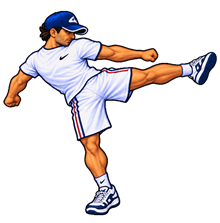
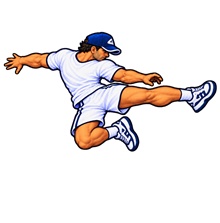
p

Changed region(s): [[0.0, 0.0269, 1.0, 0.9686]]

diff --git a/game.js b/game.js
@@ -266,12 +266,12 @@ function inReach(ax,ay,bx,by,reach){return Math.abs(ax-bx)<reach&&Math.abs(ay-by
 function triggerImpact(x,y,direction,strength=1){impactFlash={active:true,elapsed:0,x,y,direction,strength};pulidoHitStopMs=Math.max(pulidoHitStopMs,strength>1?60:52)}
 function damageEnemy(actor,amount,knockDirection=facing,canBlock=false){if(actor.dead||actor.knocked)return false;const reinforced=actor===enemy||actor===heavyEnemy,blockChance=reinforced?.275:.22,damageMultiplier=actor===jefe?.5:reinforced?.75:1,impactStrength=amount>=18?1.25:1;if(canBlock&&actor.guardTimer>0){actor.state='guard';actor.attackTimer=0;playPunchBlockSfx();return false}if(canBlock&&actor.comboHits===0&&(actor.guardCooldown||0)<=0&&Math.random()<blockChance){actor.guardTimer=55;actor.guardCooldown=78;actor.state='guard';actor.attackTimer=0;playPunchBlockSfx();return false}actor.hp=Math.max(0,actor.hp-amount*damageMultiplier);actor.hitTimer=18;actor.x+=knockDirection*(impactStrength>1?23:19);triggerImpact(actor.x,actor.y-actorScale(actor)*72,knockDirection,impactStrength);playPunchImpactSfx();actor.comboHits=actor.comboTimer>0?actor.comboHits+1:1;actor.comboTimer=42;if(actor.hp===0){actor.dead=true;actor.deadTimer=78;actor.hidden=false;actor.state='dead';actor.attackTimer=0;actor.drinkTimer=0;playKnockoutSfx();return true}if(actor.comboHits>=3){actor.knocked=true;actor.knockTimer=78;actor.comboHits=0;actor.comboTimer=0;actor.state='down';actor.attackTimer=0;playKnockoutSfx()}return true}
 function damagePlayer(amount,from){if(playerDead||invincible)return;player.hp=Math.max(0,player.hp-amount);playerHitTimer=16;player.x+=from.facing*14;triggerImpact(player.x,player.y-52,from.facing);playPunchImpactSfx();if(player.hp===0){playerDead=true;state='dead';attackTimer=0;jumpActive=false;jumpY=0;stopPhaseMusic();playKnockoutSfx();playDistantShout(140)}}
-damagePlayer=function(amount,from){if(playerDead||playerKnocked||invincible)return;player.hp=Math.max(0,player.hp-amount);playerHitTimer=16;player.x+=from.facing*14;triggerImpact(player.x,player.y-52,from.facing);playPunchImpactSfx();gainRafaSpecial(8);playerComboHits=playerComboTimer>0&&playerComboSource===from?playerComboHits+1:1;playerComboSource=from;playerComboTimer=42;const knockLimit=(from===enemy||from===heavyEnemy)?2:3;if(player.hp===0){playerDead=true;state='dead';attackTimer=0;jumpActive=false;jumpY=0;stopPhaseMusic();playKnockoutSfx();playDistantShout(140);return}if(playerComboHits>=knockLimit){playerKnocked=true;playerKnockTimer=78;playerComboHits=0;playerComboTimer=0;playerComboSource=null;state='down';attackTimer=0;jumpActive=false;jumpY=0;playKnockoutSfx()}}
+damagePlayer=function(amount,from){if(playerDead||playerKnocked||invincible)return;player.hp=Math.max(0,player.hp-amount);playerHitTimer=16;player.x+=from.facing*14;triggerImpact(player.x,player.y-52,from.facing);playPunchImpactSfx();gainRafaSpecial(4);playerComboHits=playerComboTimer>0&&playerComboSource===from?playerComboHits+1:1;playerComboSource=from;playerComboTimer=42;const knockLimit=(from===enemy||from===heavyEnemy)?2:3;if(player.hp===0){playerDead=true;state='dead';attackTimer=0;jumpActive=false;jumpY=0;stopPhaseMusic();playKnockoutSfx();playDistantShout(140);return}if(playerComboHits>=knockLimit){playerKnocked=true;playerKnockTimer=78;playerComboHits=0;playerComboTimer=0;playerComboSource=null;state='down';attackTimer=0;jumpActive=false;jumpY=0;playKnockoutSfx()}}
 function gainRafaSpecial(amount){if(selectedCharacter!=='rafa'||rafaSpecialAttack)return;rafaSpecialMeter=Math.min(100,rafaSpecialMeter+amount)}
-function tryPlayerHit(forceKick=false){if(playerAttackLanded||playerDead)return false;const kicking=forceKick||state==='kick'||state==='jumpKick',hitReach=kicking?120:98,damage=kicking?18:14;for(const actor of combatActors()){if(actor.dead)continue;if(Math.abs(actor.x-player.x)<hitReach&&Math.abs(actor.y-player.y)<24){const canBlock=!kicking||actor===enemy||actor===heavyEnemy,damaged=damageEnemy(actor,damage,facing,canBlock);if(damaged){player.x-=facing*3;gainRafaSpecial(12)}playerAttackLanded=true;return damaged;}}return false}
+function tryPlayerHit(forceKick=false){if(playerAttackLanded||playerDead)return false;const kicking=forceKick||state==='kick'||state==='jumpKick',hitReach=kicking?120:98,damage=kicking?18:14;for(const actor of combatActors()){if(actor.dead)continue;if(Math.abs(actor.x-player.x)<hitReach&&Math.abs(actor.y-player.y)<24){const canBlock=!kicking||actor===enemy||actor===heavyEnemy,damaged=damageEnemy(actor,damage,facing,canBlock);if(damaged){player.x-=facing*3;gainRafaSpecial(6)}playerAttackLanded=true;return damaged;}}return false}
 function startRafaSpecial(){if(selectedCharacter!=='rafa'||rafaSpecialMeter<100||rafaSpecialAttack)return;rafaSpecialMeter=0;rafaSpecialAttack={elapsed:0,firstHit:false,secondHit:false};state='specialWindup';zPressed=false;xPressed=false;specialPressed=false;attackTimer=0;playerAttackLanded=true}
-function tryRafaSpecialHit(){let hit=false;for(const actor of combatActors()){if(actor.dead||actor.knocked)continue;if(Math.abs(actor.x-player.x)<142&&Math.abs(actor.y-player.y)<28){if(damageEnemy(actor,25,facing,true)){hit=true}}}if(hit){player.x-=facing*5;pulidoHitStopMs=Math.max(pulidoHitStopMs,68)}return hit}
-function updateRafaSpecial(dt){if(!rafaSpecialAttack)return;rafaSpecialAttack.elapsed+=dt*16.67;const t=rafaSpecialAttack.elapsed;if(t<210){state='specialWindup';return}if(t<380){state='specialKickA';if(!rafaSpecialAttack.firstHit){rafaSpecialAttack.firstHit=true;tryRafaSpecialHit()}return}if(t<560){state='specialKickB';if(!rafaSpecialAttack.secondHit){rafaSpecialAttack.secondHit=true;tryRafaSpecialHit()}return}rafaSpecialAttack=null;state='idle';walkClock=0;walkFrame=0}
+function tryRafaSpecialHit(launch=false){let hit=false;for(const actor of combatActors()){if(actor.dead||actor.knocked)continue;const ahead=(actor.x-player.x)*facing>0;if(ahead&&Math.abs(actor.x-player.x)<142&&Math.abs(actor.y-player.y)<28){if(damageEnemy(actor,launch?28:18,facing,false)){hit=true;if(launch&&!actor.dead){actor.knocked=true;actor.knockTimer=112;actor.comboHits=0;actor.comboTimer=0;actor.state='down';actor.attackTimer=0;actor.x+=facing*58;triggerImpact(actor.x,actor.y-actorScale(actor)*72,facing,1.5)}}}}if(hit){player.x-=facing*5;pulidoHitStopMs=Math.max(pulidoHitStopMs,68)}return hit}
+function updateRafaSpecial(dt){if(!rafaSpecialAttack)return;rafaSpecialAttack.elapsed+=dt*16.67;const t=rafaSpecialAttack.elapsed;if(t<210){state='specialWindup';return}if(t<380){state='specialKickA';if(!rafaSpecialAttack.firstHit){rafaSpecialAttack.firstHit=true;tryRafaSpecialHit(false)}return}if(t<560){state='specialKickB';if(!rafaSpecialAttack.secondHit){rafaSpecialAttack.secondHit=true;tryRafaSpecialHit(true)}return}rafaSpecialAttack=null;state='idle';walkClock=0;walkFrame=0}
 function startPulidoAttack(kind){pulidoAttack={kind,elapsed:0,landed:false};attackTimer=1;playerAttackLanded=false;state=`${kind}Windup`;zPressed=false;xPressed=false}
 function updatePulidoAttack(dt){if(!pulidoAttack)return;const attack=pulidoAttack,timing=pulidoAttackTiming[attack.kind];attack.elapsed+=dt*16.67;zPressed=false;xPressed=false;const impactAt=timing.windup,holdAt=impactAt+timing.impact,recoverAt=holdAt+timing.hold,endAt=recoverAt+timing.recover;if(attack.elapsed<impactAt){state=`${attack.kind}Windup`;return}if(attack.elapsed<holdAt){state=`${attack.kind}Impact`;if(!attack.landed){attack.landed=true;if(tryPlayerHit(attack.kind==='kick'))pulidoHitStopMs=60}return}if(attack.elapsed<recoverAt){state=`${attack.kind}Hold`;return}if(attack.elapsed<endAt){state=`${attack.kind}Recover`;return}pulidoAttack=null;attackTimer=0;state='idle'}
 function resolveActorContact(){for(const actor of combatActors()){if(actor.dead||actor.knocked||Math.abs(player.y-actor.y)>=54)continue;const distance=contactDistance(actor)-5,dx=player.x-actor.x;if(Math.abs(dx)<distance)player.x=actor.x+(dx<0?-distance:distance)}}

diff --git a/index.html b/index.html
@@ -17,6 +17,6 @@
   <div id="wrap"><div id="game"><canvas id="c"></canvas><div id="help"><b>CONTROLES</b> · ← → mover · ↑ ↓ moverse arriba/abajo · Z puñetazo · X patada · C salto</div></div></div>
   <div id="bossIntroScreen" aria-hidden="true"><div class="duelEye duelEyePlayer"><img id="duelPlayerPortrait" alt=""></div><div class="duelDivider"></div><div class="duelEye duelEyeBoss"><img id="duelBossPortrait" src="assets/enemies/jefe-pisos-rojos/idle.png" alt=""></div></div>
   <div id="rotateDevice" role="alert"><span>↻</span><strong>Gira el móvil</strong></div>
-  <script src="game.js?v=20260930-02"></script>
+  <script src="game.js?v=20260930-06"></script>
 </body>
 </html>
